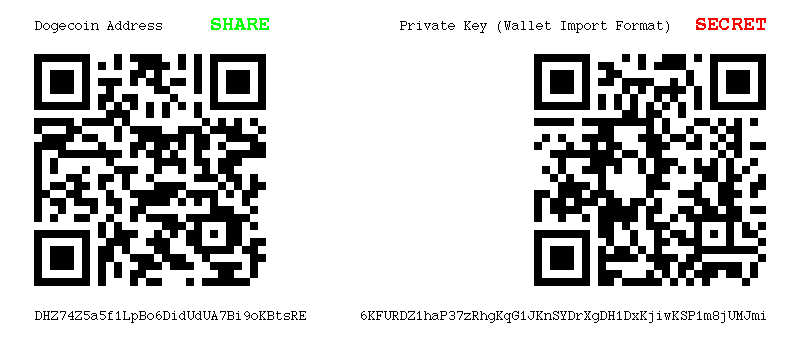
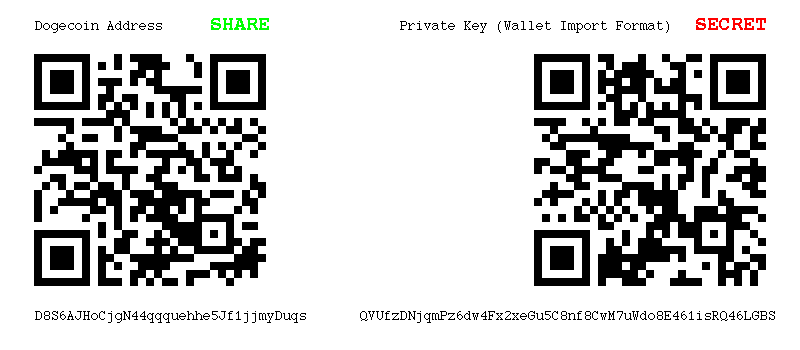
changed to use compressed addresses

diff --git a/README.md b/README.md
@@ -14,12 +14,18 @@ The wallet will look like this:
 
  ![wallet](https://raw.github.com/dbasch/dogecoin-paper-wallet/master/wallet.png)
 
+ You may want to do this on a computer that's never been connected to the internet. For example, you could:
+
+ * Boot a live CD/USB of Ubuntu, don't connect it to a network.
+ * run `lein uberjar` on a trusted computer, copy the jar file to a pen drive and then to the Ubuntu box.
+ * run `java -jar bitcoin-[version]-SNAPSHOT-standalone.jar` on the Ubuntu box. 
+
 ## WARNING WARNING WARNING 
 
 Be very careful when using this program. It uses the [dogecoinj](https://github.com/langerhans/dogecoinj-new) library for key generation
  so I'm not responsible for any bugs that might generate insecure wallets. Use at your own risk.
 
-Find this useful? send me a tip at DHpZsQCDKq9WbqyqfetMcGq87pFZfkwLBh :)
+Find this useful? send me a tip at **DHpZsQCDKq9WbqyqfetMcGq87pFZfkwLBh** :)
 
 ## License
 
